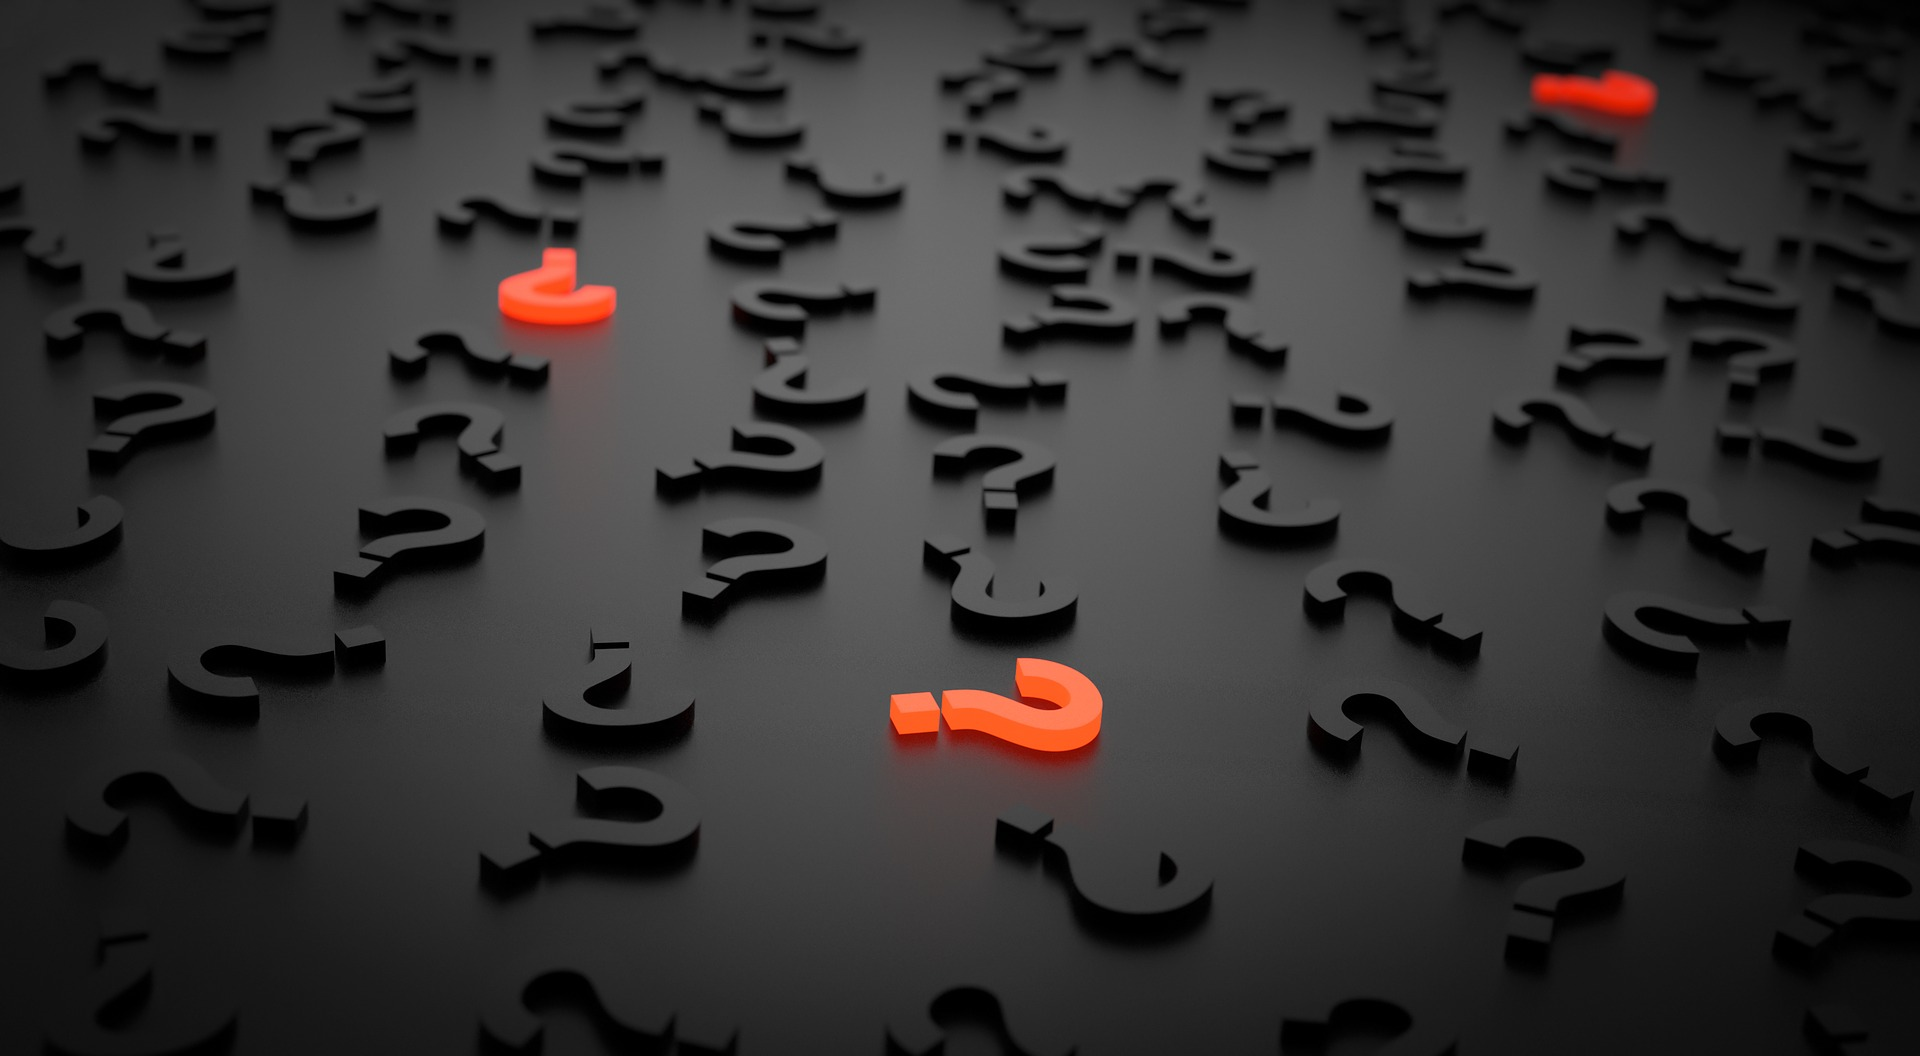
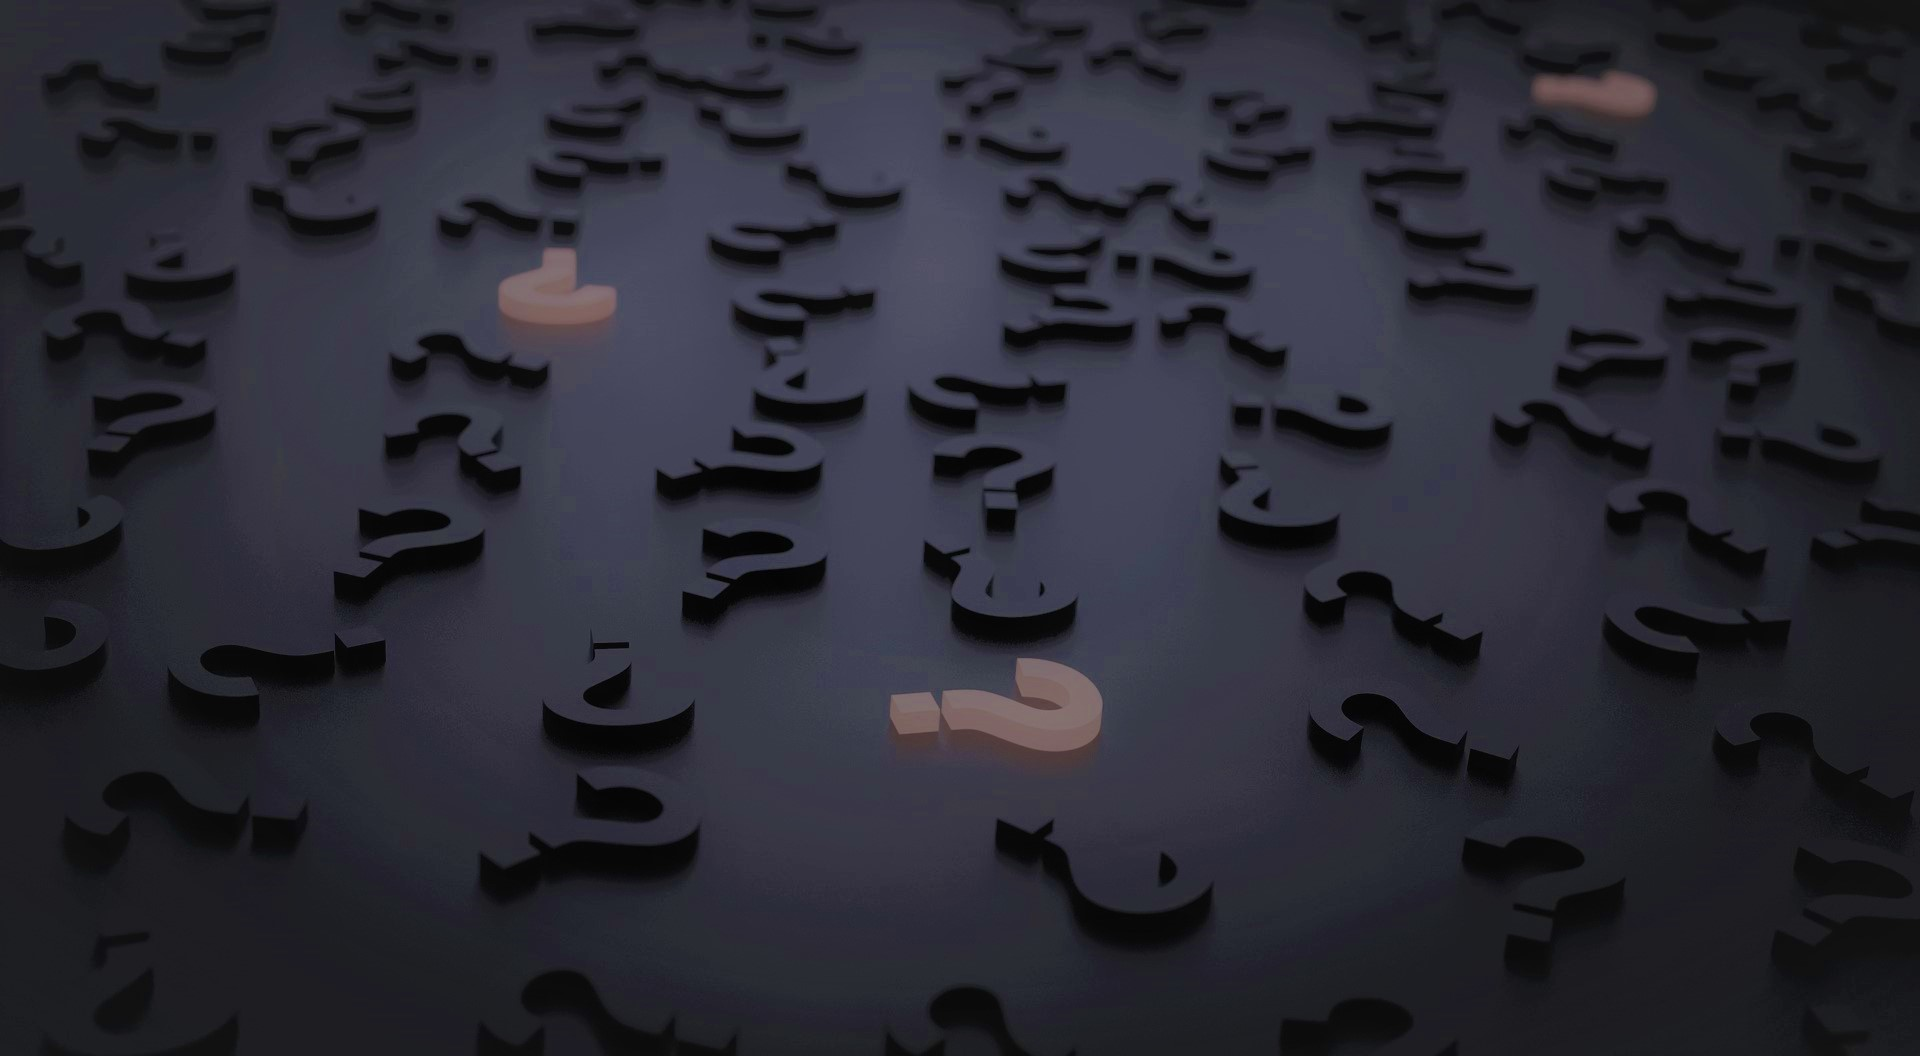
Inicio reemplazo, cambiados por colores de la organización

diff --git a/css/style.css b/css/style.css
@@ -16,7 +16,7 @@ body {
 }
 
 a {
-  color: #f82249;
+  color: #34d4c0;
   transition: 0.5s;
 }
 
@@ -72,7 +72,7 @@ h6 {
 .back-to-top {
   position: fixed;
   display: none;
-  background: #f82249;
+  background: #34d4c0;
   color: #fff;
   width: 40px;
   height: 40px;
@@ -114,7 +114,7 @@ h6 {
   display: block;
   width: 60px;
   height: 5px;
-  background: #f82249;
+  background: #34d4c0;
   bottom: 0;
   left: calc(50% - 25px);
 }
@@ -175,7 +175,7 @@ h6 {
 }
 
 #header #logo h1 span {
-  color: #f82249;
+  color: #34d4c0;
 }
 
 #header #logo h1 a,
@@ -288,7 +288,7 @@ h6 {
   height: 2px;
   bottom: 0;
   left: 0;
-  background-color: #f82249;
+  background-color: #34d4c0;
   visibility: hidden;
   transition: all 0.3s ease-in-out 0s;
 }
@@ -302,10 +302,10 @@ h6 {
 
 .nav-menu li.buy-tickets a {
   color: #fff;
-  background: #f82249;
+  background: #34d4c0;
   padding: 7px 22px;
   border-radius: 50px;
-  border: 2px solid #f82249;
+  border: 2px solid #34d4c0;
   transition: all ease-in-out 0.3s;
   font-weight: 500;
   margin-left: 8px;
@@ -346,7 +346,7 @@ h6 {
 }
 
 .nav-menu ul li:hover > a {
-  background: #f82249;
+  background: #34d4c0;
   color: #fff;
 }
 
@@ -413,7 +413,7 @@ h6 {
 }
 
 #mobile-nav ul li a:hover {
-  color: #f82249;
+  color: #34d4c0;
 }
 
 #mobile-nav ul li li {
@@ -430,11 +430,11 @@ h6 {
 }
 
 #mobile-nav ul .menu-has-children i.fa-chevron-up {
-  color: #f82249;
+  color: #34d4c0;
 }
 
 #mobile-nav ul .menu-item-active {
-  color: #f82249;
+  color: #34d4c0;
 }
 
 #mobile-body-overly {
@@ -469,7 +469,7 @@ body.mobile-nav-active #mobile-nav-toggle {
 #intro {
   width: 100%;
   height: 100vh;
-  background: url(../img/intro-bg.jpg) top center;
+  background: url(../imgcustom/head_bg.jpg) top center;
   background-size: cover;
   overflow: hidden;
   position: relative;
@@ -517,7 +517,7 @@ body.mobile-nav-active #mobile-nav-toggle {
 }
 
 #intro h1 span {
-  color: #f82249;
+  color: #34d4c0
 }
 
 #intro p {
@@ -529,7 +529,7 @@ body.mobile-nav-active #mobile-nav-toggle {
 #intro .play-btn {
   width: 94px;
   height: 94px;
-  background: radial-gradient(#f82249 50%, rgba(101, 111, 150, 0.15) 52%);
+  background: radial-gradient(#34d4c0 50%, rgba(101, 111, 150, 0.15) 52%);
   border-radius: 50%;
   display: block;
   position: relative;
@@ -576,9 +576,10 @@ body.mobile-nav-active #mobile-nav-toggle {
 }
 
 #intro .play-btn:hover::after {
-  border-left: 15px solid #f82249;
+  border-left: 15px solid #34d4c0;
   -webkit-transform: scale(20);
   transform: scale(20);
+  background-color: #34d4c0
 }
 
 #intro .play-btn:hover::before {
@@ -614,11 +615,11 @@ body.mobile-nav-active #mobile-nav-toggle {
   color: #fff;
   -webkit-animation-delay: 0.8s;
   animation-delay: 0.8s;
-  border: 2px solid #f82249;
+  border: 2px solid #34d4c0;
 }
 
 #intro .about-btn:hover {
-  background: #f82249;
+  background: #34d4c0;
   color: #fff;
 }
 
@@ -665,7 +666,7 @@ body.mobile-nav-active #mobile-nav-toggle {
 
 #about:before {
   content: "";
-  background: rgba(13, 20, 41, 0.8);
+  background: rgba(0,69,62, 0.6);
   position: absolute;
   bottom: 0;
   top: 0;
@@ -742,7 +743,7 @@ body.mobile-nav-active #mobile-nav-toggle {
 }
 
 #speakers .speaker .details a:hover {
-  color: #f82249;
+  color: #34d4c0;
 }
 
 #speakers .speaker:hover .details {
@@ -777,7 +778,7 @@ body.mobile-nav-active #mobile-nav-toggle {
 }
 
 #speakers-details .details .social a:hover {
-  background: #f82249;
+  background: #34d4c0;
   color: #fff;
 }
 
@@ -822,7 +823,7 @@ body.mobile-nav-active #mobile-nav-toggle {
 }
 
 #schedule .nav-tabs a.active {
-  background-color: #f82249;
+  background-color: #34d4c0;
   color: #fff;
 }
 
@@ -995,7 +996,7 @@ body.mobile-nav-active #mobile-nav-toggle {
 }
 
 #hotels a:hover {
-  color: #f82249;
+  color: #34d4c0;
 }
 
 #hotels .stars {
@@ -1045,7 +1046,7 @@ body.mobile-nav-active #mobile-nav-toggle {
 }
 
 #gallery .owl-dot.active {
-  background-color: #f82249;
+  background-color: #34d4c0;
 }
 
 #gallery .gallery-carousel .owl-stage-outer {
@@ -1053,7 +1054,7 @@ body.mobile-nav-active #mobile-nav-toggle {
 }
 
 #gallery .gallery-carousel .center {
-  border: 6px solid #f82249;
+  border: 6px solid #34d4c0;
   margin: -10px;
   box-sizing: content-box;
   padding: 4px;
@@ -1142,7 +1143,7 @@ body.mobile-nav-active #mobile-nav-toggle {
 }
 
 #faq #faq-list a.collapse {
-  color: #f82249;
+  color: #34d4c0;
 }
 
 #faq #faq-list a.collapsed {
@@ -1195,7 +1196,7 @@ body.mobile-nav-active #mobile-nav-toggle {
   border: 0;
   padding: 9px 25px;
   cursor: pointer;
-  background: #f82249;
+  background: #34d4c0;
   color: #fff;
   transition: all 0.3s ease;
   outline: none;
@@ -1255,7 +1256,7 @@ body.mobile-nav-active #mobile-nav-toggle {
   border-radius: 50px;
   padding: 10px 40px;
   transition: all 0.2s;
-  background-color: #f82249;
+  background-color: #34d4c0;
   border: 0;
   color: #fff;
 }
@@ -1274,7 +1275,7 @@ body.mobile-nav-active #mobile-nav-toggle {
   border-radius: 50px;
   padding: 10px 40px;
   transition: all 0.2s;
-  background-color: #f82249;
+  background-color: #34d4c0;
   border: 0;
   color: #fff;
 }
@@ -1300,7 +1301,7 @@ body.mobile-nav-active #mobile-nav-toggle {
   font-size: 48px;
   display: inline-block;
   margin-bottom: 10px;
-  color: #f82249;
+  color: #34d4c0;
 }
 
 #contact .contact-info address,
@@ -1322,7 +1323,7 @@ body.mobile-nav-active #mobile-nav-toggle {
 }
 
 #contact .contact-info a:hover {
-  color: #f82249;
+  color: #34d4c0;
 }
 
 #contact .contact-address,
@@ -1332,8 +1333,8 @@ body.mobile-nav-active #mobile-nav-toggle {
 }
 
 #contact .form #sendmessage {
-  color: #f82249;
-  border: 1px solid #f82249;
+  color: #34d4c0;
+  border: 1px solid #34d4c0;
   display: none;
   text-align: center;
   padding: 15px;
@@ -1374,7 +1375,7 @@ body.mobile-nav-active #mobile-nav-toggle {
 }
 
 #contact .form button[type="submit"] {
-  background: #f82249;
+  background: #34d4c0;
   border: 0;
   padding: 10px 40px;
   color: #fff;
@@ -1446,7 +1447,7 @@ body.mobile-nav-active #mobile-nav-toggle {
 }
 
 #footer .footer-top .social-links a:hover {
-  background: #f82249;
+  background: #34d4c0;
   color: #fff;
 }
 
@@ -1457,7 +1458,7 @@ body.mobile-nav-active #mobile-nav-toggle {
   text-transform: uppercase;
   position: relative;
   padding-bottom: 12px;
-  border-bottom: 2px solid #f82249;
+  border-bottom: 2px solid #34d4c0;
 }
 
 #footer .footer-top .footer-links {
@@ -1472,7 +1473,7 @@ body.mobile-nav-active #mobile-nav-toggle {
 
 #footer .footer-top .footer-links ul i {
   padding-right: 5px;
-  color: #f82249;
+  color: #34d4c0;
   font-size: 18px;
 }
 
@@ -1490,7 +1491,7 @@ body.mobile-nav-active #mobile-nav-toggle {
 }
 
 #footer .footer-top .footer-links ul a:hover {
-  color: #f82249;
+  color: #34d4c0;
 }
 
 #footer .footer-top .footer-contact {
@@ -1512,7 +1513,7 @@ body.mobile-nav-active #mobile-nav-toggle {
 }
 
 #footer .footer-top .footer-newsletter input[type="submit"] {
-  background: #f82249;
+  background: #34d4c0;
   border: 0;
   width: 35%;
   padding: 6px 0;

diff --git a/index.html b/index.html
@@ -46,7 +46,7 @@
       <div id="logo" class="pull-left">
         <!-- Uncomment below if you prefer to use a text logo -->
         <!-- <h1><a href="#main">C<span>o</span>nf</a></h1>-->
-        <a href="#intro" class="scrollto"><img src="img/logo.png" alt="" title=""></a>
+        <a href="#intro" class="scrollto"><img src="imgcustom/logo_con_borde.png" alt="" title=""></a>
       </div>
 
       <nav id="nav-menu-container">
@@ -71,11 +71,11 @@
   ============================-->
   <section id="intro">
     <div class="intro-container wow fadeIn">
-      <h1 class="mb-4 pb-0">The Annual<br><span>Marketing</span> Conference</h1>
-      <p class="mb-4 pb-0">10-12 December, Downtown Conference Center, New York</p>
+      <h1 class="mb-4 pb-0">CAMINO CONTIGO<br>HACIA LA <span>INCLUSIÓN</span></h1>
+      <p class="mb-4 pb-0">Presiona el botón a continuación para conocernos</p>
       <a href="https://www.youtube.com/watch?v=jDDaplaOz7Q" class="venobox play-btn mb-4" data-vbtype="video"
         data-autoplay="true"></a>
-      <a href="#about" class="about-btn scrollto">About The Event</a>
+      <a href="#about" class="about-btn scrollto">¿Quiénes somos?</a>
     </div>
   </section>
 
@@ -88,18 +88,26 @@
       <div class="container">
         <div class="row">
           <div class="col-lg-6">
-            <h2>About The Event</h2>
-            <p>Sed nam ut dolor qui repellendus iusto odit. Possimus inventore eveniet accusamus error amet eius aut
-              accusantium et. Non odit consequatur repudiandae sequi ea odio molestiae. Enim possimus sunt inventore in
-              est ut optio sequi unde.</p>
+            <h2>¿Quiénes somos?</h2>
+            <p>Fundación Camino contigo es una fundación sin fines de lucro cuyo objetivo
+			es la inserción e inclusión integral de personas con discapacidad al mundo laboral.</p>
           </div>
           <div class="col-lg-3">
-            <h3>Where</h3>
-            <p>Downtown Conference Center, New York</p>
+            <h3>Nuestra visión</h3>
+            <p>Entregar entrenamiento, asesoría a las personas con discapacidad 
+			y a las Empresas para favorecer la inserción laboral y habilitación 
+			para los puestos de trabajo, de manera de asegurar a estas personas,
+			según sus capacidades y habilidades, su ubicación en puestos de calidad,
+			entregándoles servicios orientados a mejorar sus oportunidades de vida,
+			mediante la inclusión laboral en empresas públicas y privadas.</p>
           </div>
           <div class="col-lg-3">
-            <h3>When</h3>
-            <p>Monday to Wednesday<br>10-12 December</p>
+            <h3>Nuestra Misión</h3>
+            <p>Ser una entidad  que fomente y promueva la realización integral 
+			para que personas con discapacidad, especialmente personas sordas, 
+			alcancen su máximo desarrollo en cada una de sus  áreas de desempeño, 
+			en ejercicio de sus libertades culturales y lingüísticas, en  igualdad 
+			y libres de discriminación por su discapacidad.</p>
           </div>
         </div>
       </div>
